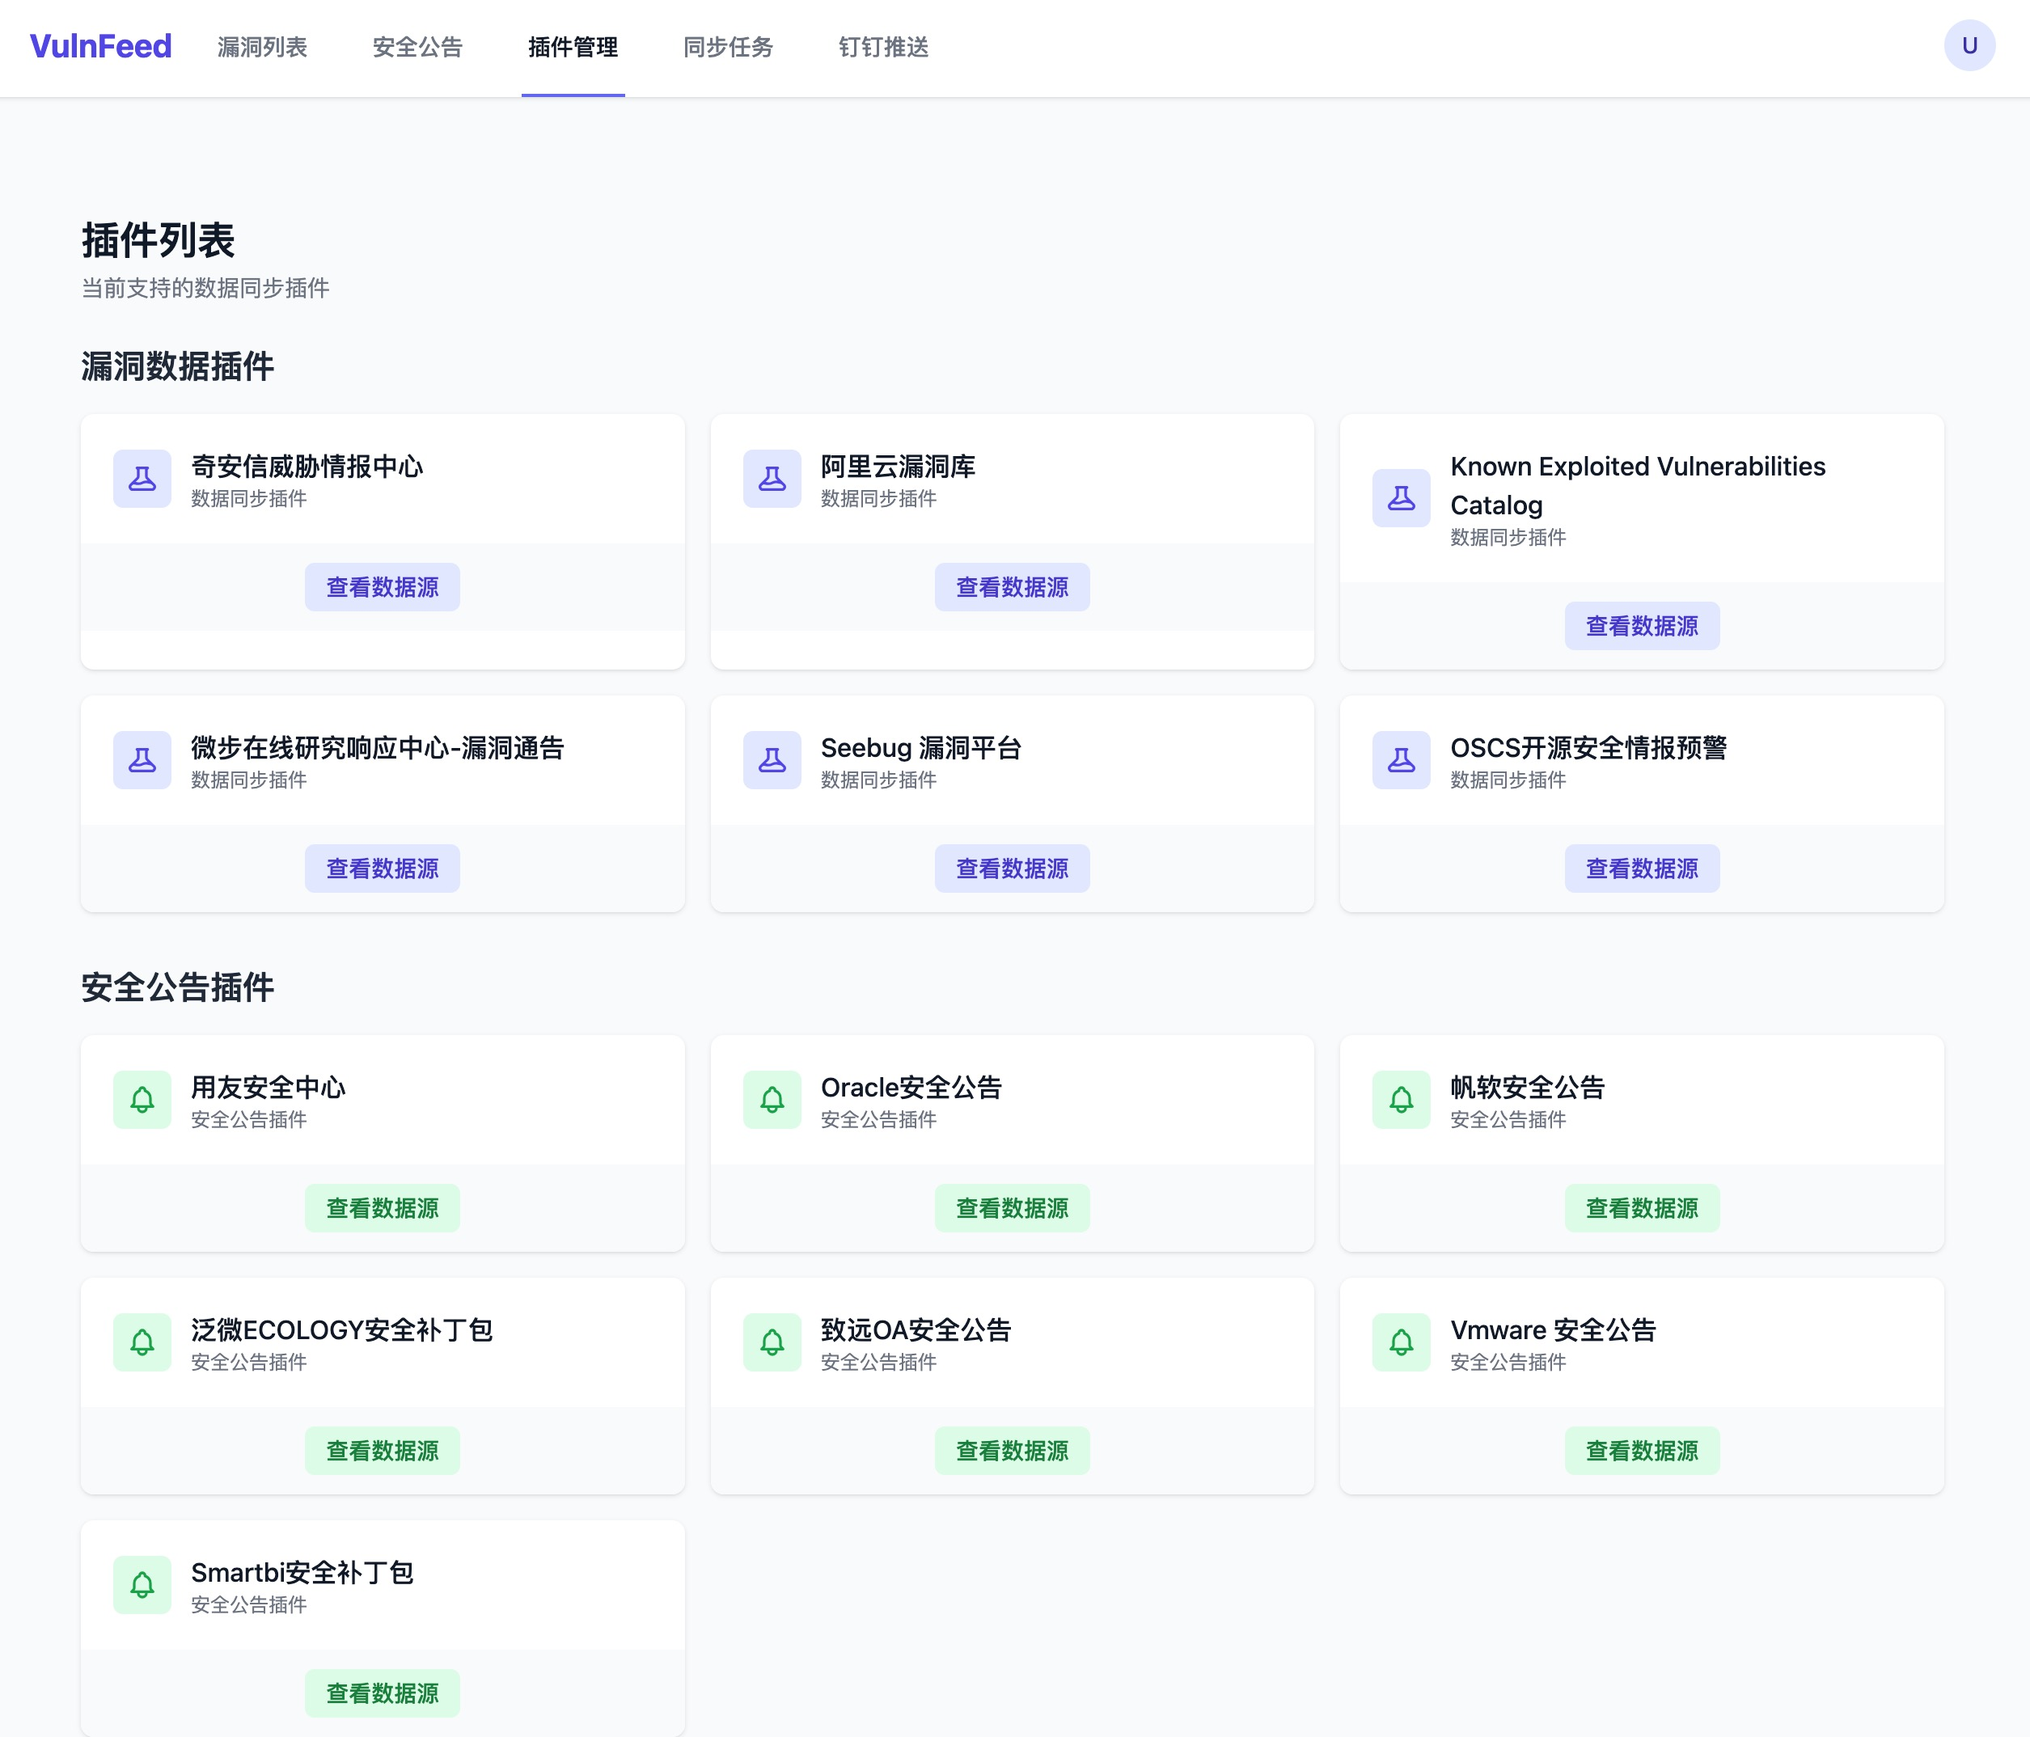
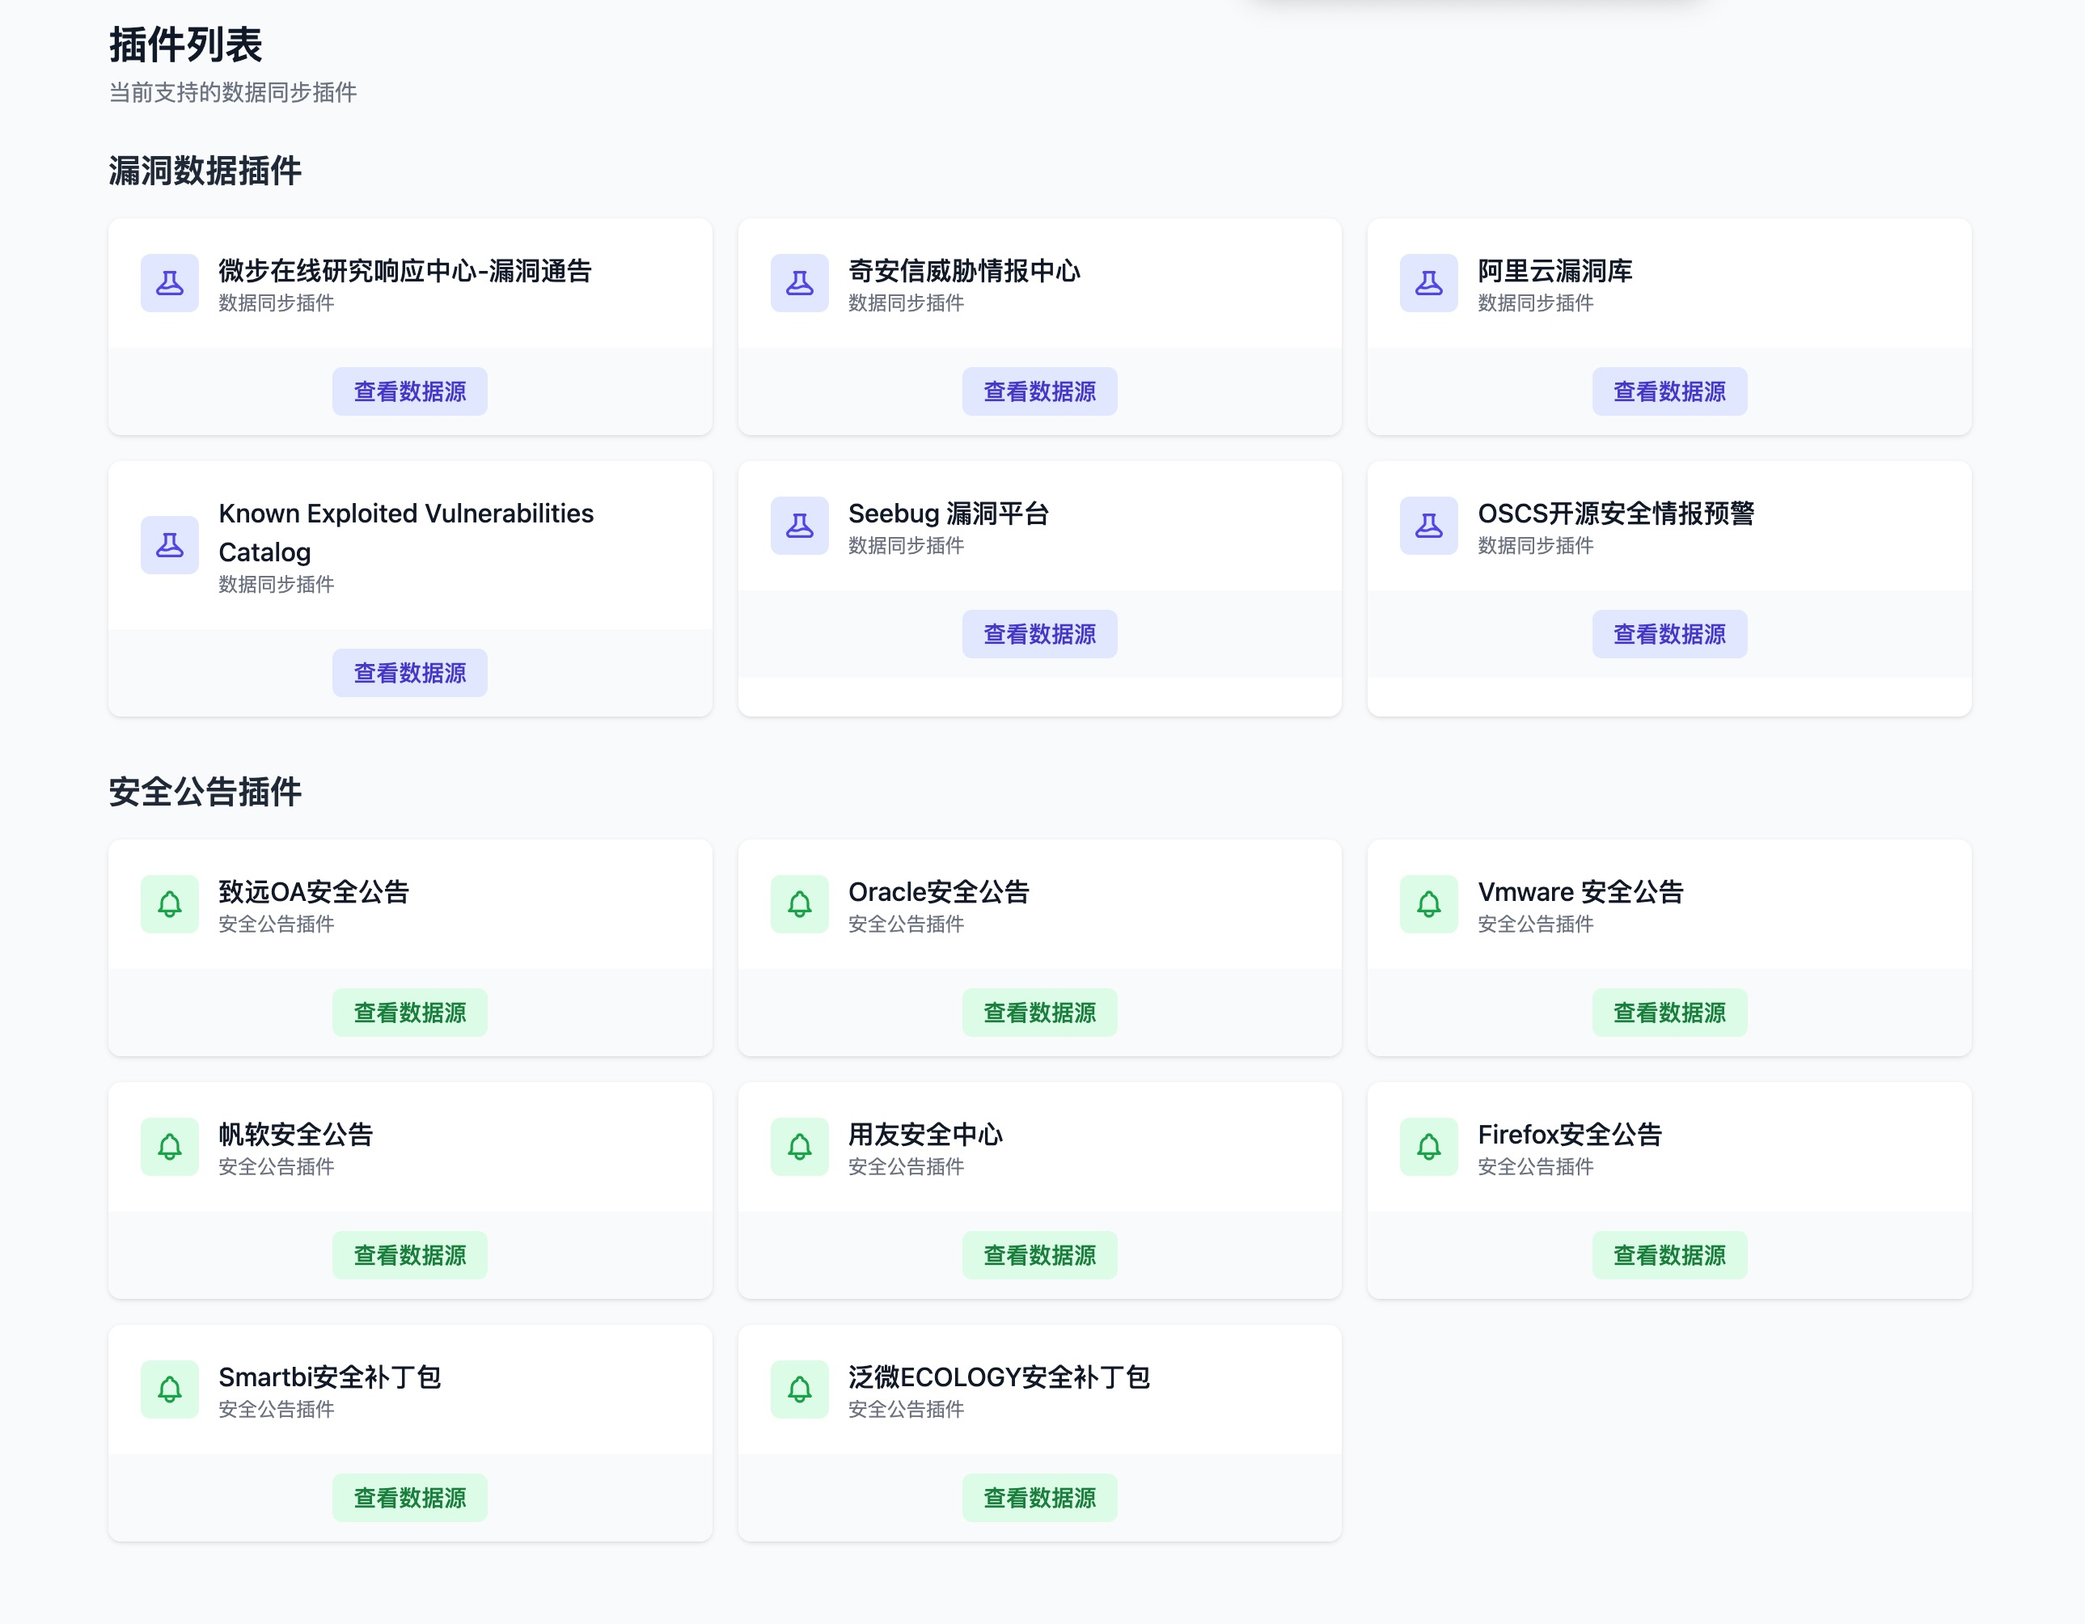
feat: support firefox sec notice (#21)

diff --git a/src/output/plugins/sec_notice/firefox.rs b/src/output/plugins/sec_notice/firefox.rs
@@ -1,0 +1,320 @@
+use async_trait::async_trait;
+use error_stack::ResultExt;
+use mea::mpsc::UnboundedSender;
+use scraper::{ElementRef, Html, Selector};
+
+use crate::{
+    AppResult,
+    domain::models::security_notice::{CreateSecurityNotice, RiskLevel},
+    errors::Error,
+    output::plugins::sec_notice::{SecNoticePlugin, register_sec_notice},
+    utils::http_client::HttpClient,
+};
+
+const FIREFOX_NOTICE_URL: &str =
+    "https://www.mozilla.org/en-US/security/known-vulnerabilities/firefox/";
+
+#[derive(Debug, Clone)]
+pub struct FirefoxNoticePlugin {
+    name: String,
+    display_name: String,
+    link: String,
+    http_client: HttpClient,
+    sender: UnboundedSender<CreateSecurityNotice>,
+}
+
+#[async_trait]
+impl SecNoticePlugin for FirefoxNoticePlugin {
+    fn get_name(&self) -> String {
+        self.name.to_string()
+    }
+
+    fn get_display_name(&self) -> String {
+        self.display_name.to_string()
+    }
+
+    fn get_link(&self) -> String {
+        self.link.to_string()
+    }
+
+    async fn update(&self, _page_limit: i32) -> AppResult<()> {
+        let notices = self.parse_security_notices().await?;
+
+        // 只取前三条数据
+        for notice in notices.into_iter().take(3) {
+            // 获取详情页面信息
+            let detail_info = self.get_detail_info(&notice.detail_link).await?;
+
+            let create_security_notice = CreateSecurityNotice {
+                key: notice.id,
+                title: notice.title,
+                product_name: detail_info.products,
+                risk_level: self.map_risk_level(&detail_info.impact).to_string(),
+                source: self.link.clone(),
+                source_name: self.get_name(),
+                is_zero_day: false, // Firefox公告通常不是零日漏洞
+                publish_time: detail_info.announced,
+                detail_link: notice.detail_link,
+                pushed: false,
+            };
+
+            self.sender
+                .send(create_security_notice)
+                .change_context_lazy(|| {
+                    Error::Message("Failed to send security notice to queue".to_string())
+                })?;
+        }
+        Ok(())
+    }
+}
+
+impl FirefoxNoticePlugin {
+    pub fn try_new(
+        sender: UnboundedSender<CreateSecurityNotice>,
+    ) -> AppResult<FirefoxNoticePlugin> {
+        let http_client = HttpClient::try_new()?;
+        let firefox = FirefoxNoticePlugin {
+            name: "FirefoxPlugin".to_string(),
+            display_name: "Firefox安全公告".to_string(),
+            link: FIREFOX_NOTICE_URL.to_string(),
+            http_client,
+            sender,
+        };
+        register_sec_notice(firefox.name.clone(), Box::new(firefox.clone()));
+        Ok(firefox)
+    }
+
+    async fn get_document(&self, url: &str) -> AppResult<Html> {
+        let content = self.http_client.get_html_content(url).await?;
+        let document = Html::parse_document(&content);
+        Ok(document)
+    }
+
+    /// 解析主页获取安全公告列表
+    pub async fn parse_security_notices(&self) -> AppResult<Vec<FirefoxSecurityNotice>> {
+        let document = self.get_document(&self.link).await?;
+        let article_selector = Selector::parse("article.mzp-c-article").map_err(|e| {
+            Error::Message(format!("Failed to parse CSS selector for article: {}", e))
+        })?;
+
+        let article = document
+            .select(&article_selector)
+            .next()
+            .ok_or_else(|| Error::Message("Failed to find article element".to_string()))?;
+
+        // 选择除了header之外的所有h3元素（这些是版本标题）
+        let h3_selector = Selector::parse("h3:not(header h3)")
+            .map_err(|e| Error::Message(format!("Failed to parse CSS selector for h3: {}", e)))?;
+
+        let mut notices = Vec::new();
+
+        // 遍历所有h3元素，获取对应的漏洞信息
+        for h3_element in article.select(&h3_selector) {
+            // 检查是否已经有3个了
+            if notices.len() >= 3 {
+                break;
+            }
+
+            // 获取版本信息
+            let version = h3_element.text().collect::<String>().trim().to_string();
+
+            // 获取下一个兄弟元素
+            let mut next_sibling = h3_element.next_sibling();
+            while let Some(sibling) = next_sibling {
+                if let Some(element) = sibling.value().as_element()
+                    && element.name() == "ul"
+                {
+                    let ul_element = ElementRef::wrap(sibling)
+                        .ok_or_else(|| Error::Message("Failed to wrap element".to_string()))?;
+
+                    let li_selector = Selector::parse("li.level-item a").map_err(|e| {
+                        Error::Message(format!("Failed to parse CSS selector for li: {}", e))
+                    })?;
+
+                    // 获取每个漏洞条目
+                    for a_element in ul_element.select(&li_selector) {
+                        if notices.len() >= 3 {
+                            break;
+                        }
+
+                        let title = a_element.text().collect::<String>().trim().to_string();
+                        let href = a_element.value().attr("href").unwrap_or("").to_string();
+                        let id = href.split('/').nth_back(1).unwrap_or("").to_string();
+
+                        if !href.is_empty() && !id.is_empty() {
+                            notices.push(FirefoxSecurityNotice {
+                                id,
+                                title,
+                                version: version.clone(),
+                                detail_link: format!("https://www.mozilla.org{}", href),
+                            });
+                        }
+                    }
+                    break;
+                }
+                next_sibling = sibling.next_sibling();
+            }
+        }
+
+        // 确保只返回前3个
+        notices.truncate(3);
+        Ok(notices)
+    }
+
+    /// 获取详情页面信息
+    pub async fn get_detail_info(&self, url: &str) -> AppResult<FirefoxDetailInfo> {
+        let document = self.get_document(url).await?;
+        let article_selector = Selector::parse("article.mzp-c-article").map_err(|e| {
+            Error::Message(format!("Failed to parse CSS selector for article: {}", e))
+        })?;
+
+        let article = document.select(&article_selector).next().ok_or_else(|| {
+            Error::Message("Failed to find article element in detail page".to_string())
+        })?;
+
+        let mut detail_info = FirefoxDetailInfo::default();
+
+        // 查找包含信息的dl元素
+        let dl_selector = Selector::parse("dl.summary")
+            .map_err(|e| Error::Message(format!("Failed to parse CSS selector for dl: {}", e)))?;
+
+        if let Some(dl_element) = article.select(&dl_selector).next() {
+            let dt_selector = Selector::parse("dt").map_err(|e| {
+                Error::Message(format!("Failed to parse CSS selector for dt: {}", e))
+            })?;
+            let dd_selector = Selector::parse("dd").map_err(|e| {
+                Error::Message(format!("Failed to parse CSS selector for dd: {}", e))
+            })?;
+
+            let dt_elements: Vec<_> = dl_element.select(&dt_selector).collect();
+            let dd_elements: Vec<_> = dl_element.select(&dd_selector).collect();
+
+            // 匹配dt和dd元素
+            for (dt, dd) in dt_elements.iter().zip(dd_elements.iter()) {
+                let dt_text = dt.text().collect::<String>().trim().to_string();
+                let dd_text = dd.text().collect::<String>().trim().to_string();
+
+                match dt_text.as_str() {
+                    "Announced" => detail_info.announced = dd_text,
+                    "Impact" => {
+                        // Impact可能包含在span中
+                        if let Ok(span_selector) = Selector::parse("span") {
+                            if let Some(span_element) = dd.select(&span_selector).next() {
+                                detail_info.impact =
+                                    span_element.text().collect::<String>().trim().to_string();
+                            } else {
+                                detail_info.impact = dd_text;
+                            }
+                        } else {
+                            detail_info.impact = dd_text;
+                        }
+                    }
+                    "Products" => detail_info.products = dd_text,
+                    "Fixed in" => {
+                        // Fixed in 可能是一个列表
+                        if let Ok(ul_selector) = Selector::parse("ul") {
+                            if let Some(ul_element) = dd.select(&ul_selector).next() {
+                                let li_selector = Selector::parse("li").map_err(|e| {
+                                    Error::Message(format!(
+                                        "Failed to parse CSS selector for li: {}",
+                                        e
+                                    ))
+                                })?;
+                                let versions: Vec<_> = ul_element
+                                    .select(&li_selector)
+                                    .map(|li| li.text().collect::<String>().trim().to_string())
+                                    .collect();
+                                detail_info.fixed_in = versions.join(", ");
+                            } else {
+                                detail_info.fixed_in = dd_text;
+                            }
+                        } else {
+                            detail_info.fixed_in = dd_text;
+                        }
+                    }
+                    _ => {}
+                }
+            }
+        }
+
+        Ok(detail_info)
+    }
+
+    /// 将Firefox的风险等级映射到系统风险等级
+    fn map_risk_level(&self, impact: &str) -> RiskLevel {
+        match impact.to_lowercase().as_str() {
+            "critical" => RiskLevel::Critical,
+            "high" => RiskLevel::High,
+            "moderate" => RiskLevel::Medium,
+            "low" => RiskLevel::Low,
+            _ => RiskLevel::Low,
+        }
+    }
+}
+
+#[derive(Debug, Clone)]
+pub struct FirefoxSecurityNotice {
+    pub id: String,
+    pub title: String,
+    pub version: String,
+    pub detail_link: String,
+}
+
+#[derive(Debug, Clone, Default)]
+pub struct FirefoxDetailInfo {
+    pub announced: String,
+    pub impact: String,
+    pub products: String,
+    pub fixed_in: String,
+}
+
+#[cfg(test)]
+mod tests {
+    use super::*;
+    use mea::mpsc::unbounded;
+
+    #[tokio::test]
+    async fn test_parse_security_notices() {
+        let (sender, _receiver) = unbounded::<CreateSecurityNotice>();
+        let plugin = FirefoxNoticePlugin::try_new(sender).unwrap();
+
+        // 测试解析安全公告
+        let notices = plugin.parse_security_notices().await.unwrap();
+
+        // 验证是否获取到了公告
+        assert!(!notices.is_empty());
+
+        // 验证前3个公告
+        assert!(notices.len() <= 3);
+
+        // 验证第一个公告的基本信息
+        let first_notice = &notices[0];
+        assert!(!first_notice.id.is_empty());
+        assert!(!first_notice.title.is_empty());
+        assert!(!first_notice.version.is_empty());
+        assert!(first_notice.detail_link.contains("https://www.mozilla.org"));
+
+        // 验证详情页面信息获取
+        let detail_info = plugin
+            .get_detail_info(&first_notice.detail_link)
+            .await
+            .unwrap();
+        assert!(!detail_info.announced.is_empty());
+        assert!(!detail_info.impact.is_empty());
+        assert!(!detail_info.products.is_empty());
+        assert!(!detail_info.fixed_in.is_empty());
+    }
+
+    #[test]
+    fn test_map_risk_level() {
+        let (sender, _receiver) = unbounded::<CreateSecurityNotice>();
+        let plugin = FirefoxNoticePlugin::try_new(sender).unwrap();
+
+        // 测试风险等级映射
+        assert_eq!(plugin.map_risk_level("critical"), RiskLevel::Critical);
+        assert_eq!(plugin.map_risk_level("high"), RiskLevel::High);
+        assert_eq!(plugin.map_risk_level("moderate"), RiskLevel::Medium);
+        assert_eq!(plugin.map_risk_level("low"), RiskLevel::Low);
+        assert_eq!(plugin.map_risk_level("unknown"), RiskLevel::Low);
+    }
+}

diff --git a/src/output/plugins/sec_notice/mod.rs b/src/output/plugins/sec_notice/mod.rs
@@ -1,4 +1,5 @@
 pub mod fanruan;
+pub mod firefox;
 pub mod oracle;
 pub mod seeyon;
 pub mod smartbi;
@@ -17,9 +18,9 @@ use crate::{
     AppResult,
     domain::models::security_notice::CreateSecurityNotice,
     output::plugins::sec_notice::{
-        fanruan::FanRuanNoticePlugin, oracle::OracleNoticePlugin, seeyon::SeeyonNoticePlugin,
-        smartbi::SmartbiNoticePlugin, vmware::VmwareNoticePlugin, weaver::WeaverNoticePlugin,
-        yongyou::YongYouNoticePlugin,
+        fanruan::FanRuanNoticePlugin, firefox::FirefoxNoticePlugin, oracle::OracleNoticePlugin,
+        seeyon::SeeyonNoticePlugin, smartbi::SmartbiNoticePlugin, vmware::VmwareNoticePlugin,
+        weaver::WeaverNoticePlugin, yongyou::YongYouNoticePlugin,
     },
 };
 
@@ -35,6 +36,7 @@ pub fn init(sender: UnboundedSender<CreateSecurityNotice>) -> AppResult<()> {
     SeeyonNoticePlugin::try_new(sender.clone())?;
     VmwareNoticePlugin::try_new(sender.clone())?;
     OracleNoticePlugin::try_new(sender.clone())?;
+    FirefoxNoticePlugin::try_new(sender.clone())?;
     Ok(())
 }
 
